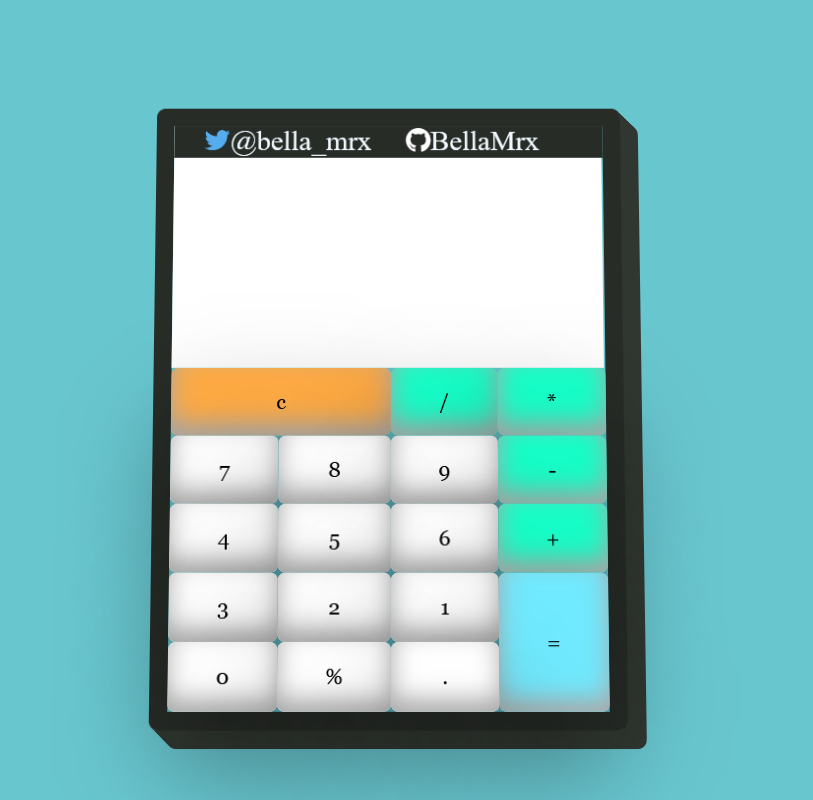
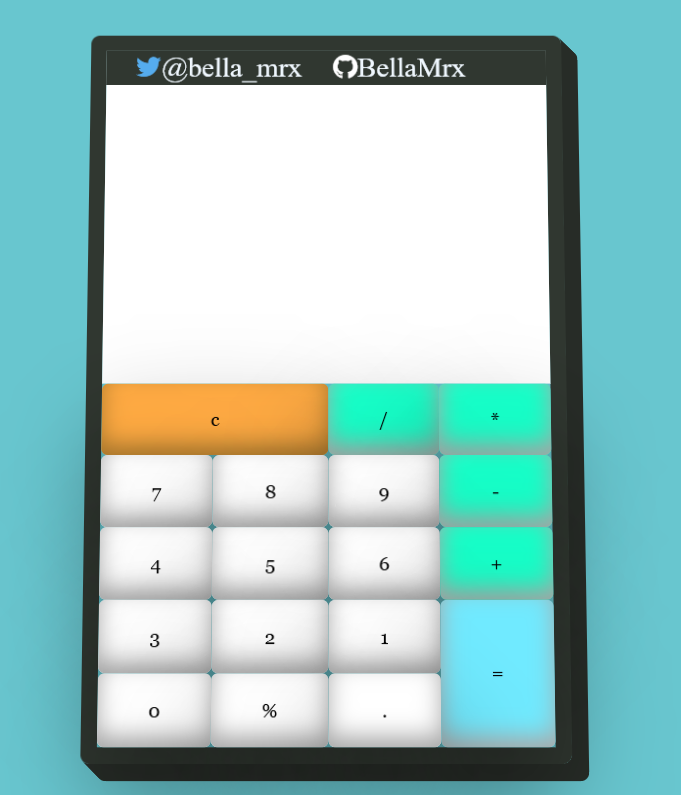
UD

diff --git a/style.css b/style.css
@@ -21,9 +21,9 @@ body {
 	position: relative;
 	display: grid;
 	cursor: pointer;
-	border: 12px solid #272c27;
+	border: 12px solid #303730;
 	border-radius: 6px;
-	box-shadow: 1px 1px #303730, 2px 2px #303730, 3px 3px #303730, 4px 4px #303730, 5px 5px #303730, 6px 6px #303730, 7px 7px #303730, 8px 8px #303730, 9px 9px #303730, 10px 10px #303730, 11px 11px #303730, 12px 12px #303730;
+	box-shadow: 1px 1px #272c27, 2px 2px #272c27, 3px 3px #272c27, 4px 4px #272c27, 5px 5px #272c27, 6px 6px #272c27, 7px 7px #272c27, 8px 8px #272c27, 9px 9px #272c27, 10px 10px #272c27, 11px 11px #272c27, 12px 12px #272c27;
 	margin: 20px;
 	transform: rotateX(5deg);
 }
@@ -62,13 +62,13 @@ textarea {
 	grid-column: span 2;
 	width: 100%;
 	background: #ffaa42;
-	box-shadow: 0 35px 68px 0 rgba(5,5,5,0.42), inset 0 -8px 16px 0 darkgray;
+	box-shadow: 0 35px 68px 0 rgba(5,5,5,0.42), inset 0 -8px 16px 0 #9e7129da;
 }
 
 .calculator span.clear:active {
 	color: #fff;
 	background: #ffb742da;
-	box-shadow: 0 35px 68px 0 #ffb742da, inset 0 -8px 16px 0 #fff;
+	box-shadow: 0 35px 68px 0 #ffb742da, inset 0 -8px 16px 0 #bdb5b5;
 }
 
 .calculator span.sign {
@@ -79,7 +79,7 @@ textarea {
 .calculator span.sign:active {
 	color: #fff;
 	background: #15ffc86f;
-	box-shadow: 0 35px 68px 0 #15ffc86f, inset 0 -8px 16px 0 darkgray;
+	box-shadow: 0 35px 68px 0 #15ffc86f, inset 0 -8px 16px 0 #bdb5b5;
 }
 
 .calculator span.equal {
@@ -96,11 +96,11 @@ textarea {
 }
 
 
-
 .contact {
 	position: absolute;
-	background-color: #272c27;
+	background-color: #303730;
 	width: 100%;
+	border: 2px solid #303730;
 }
 
 #link {
@@ -136,12 +136,12 @@ p {
 
 @media only screen and (max-width: 900px) {
 	#link {
-		font-size: 5vw;
+		font-size: 4vw;
 	}
 	
 	/* for Twitter, GitHub icon */
 	.fa {
-		font-size: 5vw;
+		font-size: 4vw;
 		text-decoration: none;
 	}
 

diff --git a/README.md b/README.md
@@ -5,8 +5,10 @@
 
 
 Preview
- ![Preview](Images/PreviewCalculator.PNG)
+
+![Preview](Images/PreviewCalculator.PNG)
 
 
 Mobile View
- ![Preview](Images/PreviewCalculatorMobile.PNG)
+
+![Preview](Images/PreviewCalculatorMobile.PNG)
